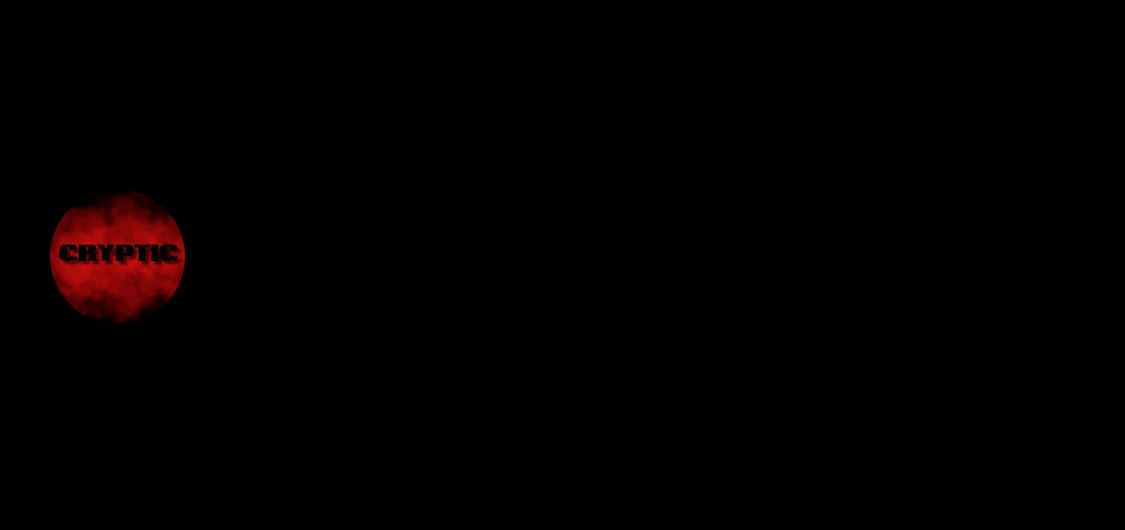
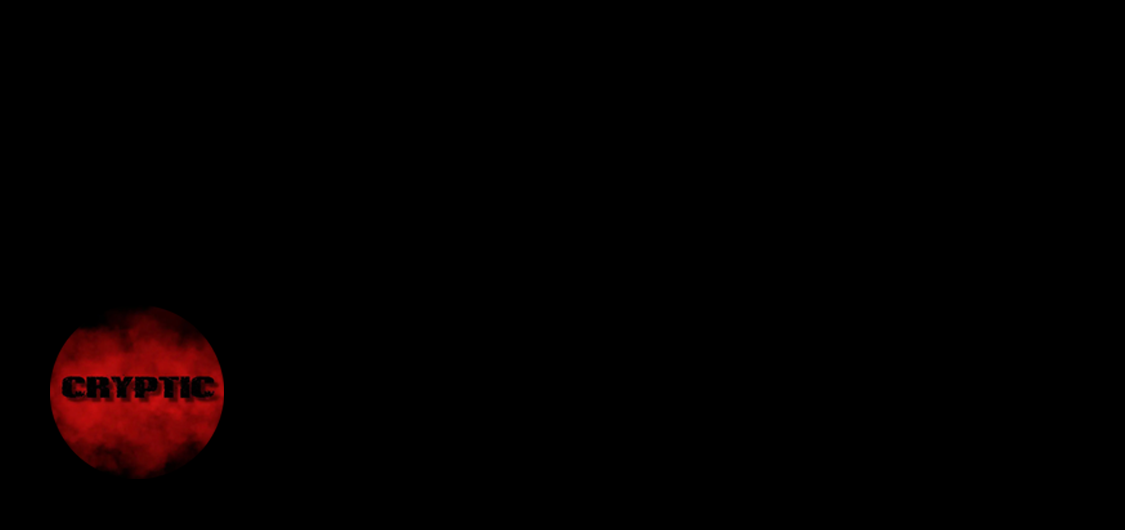
blue box

Changed region(s): [[0.0311, 0.3623, 0.2178, 0.9057]]

diff --git a/src/css/crypticshell.css b/src/css/crypticshell.css
@@ -457,6 +457,9 @@ button:focus { outline: none; }
 .box_blue2 {
 	padding: var(--ss-space-lg);
 	background-image: url("https://berrybroscrypto.com/images/cryptic-bluebox.png") !important;
+	background-position: center;
+	background-repeat: no-repeat;
+	background-size: cover;
 }
 
 .box_blue3 {
